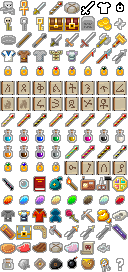
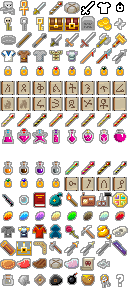
Worked on potions.

diff --git a/Tavernspiel/src/items/consumables/PotionProfile.java b/Tavernspiel/src/items/consumables/PotionProfile.java
@@ -1,0 +1,290 @@
+
+package items.consumables;
+
+import creatureLogic.Description;
+import java.awt.Color;
+import java.awt.Graphics;
+import java.awt.Image;
+import java.awt.image.BufferedImage;
+import java.awt.image.WritableRaster;
+import java.util.HashMap;
+import java.util.Random;
+import javax.swing.ImageIcon;
+import logic.Utils;
+
+/**
+ *
+ * @author Adam Whittaker
+ */
+public class PotionProfile{
+    
+    protected static BufferedImage items;
+    static{
+        ImageIcon ic = new ImageIcon("graphics/items.png");
+        items = new BufferedImage(ic.getIconWidth(), ic.getIconHeight(), BufferedImage.TYPE_INT_ARGB);
+        Graphics g = items.getGraphics();
+        g.drawImage(ic.getImage(), 0, 0, null);
+        g.dispose();
+    }
+    protected BufferedImage image;
+    protected String name;
+    protected String tasteMessage;
+    protected Description description;
+    
+    private static final HashMap<String, PotionProfile> potMap = new HashMap<>();
+    static{
+        DescriptionBuilder builder = new DescriptionBuilder();
+        potMap.put("Potion in a pyramidal tube", builder.getProfile("Potion in a narrow pyramidal tube", 0, 128));
+        potMap.put("Potion in a heart shaped tube", builder.getProfile("Potion in a heart shaped tube", 16, 128));
+        potMap.put("Potion in a star-shaped tube", builder.getProfile("Potion in a star-shaped tube", 32, 128));
+        potMap.put("Potion in a conical vial", builder.getProfile("Potion in a thick conical vial", 48, 128));
+        potMap.put("Potion in a circular vial", builder.getProfile("Potion in a thick circular vial", 64, 128));
+        potMap.put("Potion in a skull shaped bottle", builder.getProfile("Potion in a skull shaped bottle", 80, 128));
+        potMap.put("Potion in a cubic bottle", builder.getProfile("Potion in a cubic bottle", 96, 128));
+        potMap.put("Potion in a spherical jar", builder.getProfile("Potion in a spherical jar", 112, 128));
+        potMap.put("Potion in a skull shaped bottle", builder.getProfile("Potion in a skull shaped bottle", 0, 144));
+        potMap.put("Potion in a skull shaped bottle", builder.getProfile("Potion in a skull shaped bottle", 16, 144));
+        potMap.put("Potion in a skull shaped bottle", builder.getProfile("Potion in a skull shaped bottle", 32, 144));
+    }
+    
+    private static Color getColour(String name){
+        switch(name){
+            case "apple green": return Color.decode("#00ff1d");
+            case "aquamarine": return Color.decode("#7FFFD4");
+            case     "apricot": return Color.decode("#FBCEB1");
+            case "lime": return Color.decode("#BFFF00");
+            case     "sky blue": return Color.decode("#87CEEB");
+            case     "amber": return Color.decode("#FFBF00");
+            case     "auburn": return Color.decode("#A52A2A");
+            case     "gold": return Color.decode("#FFD700");
+            case     "electrum": return Color.decode("#fef3d4");
+            case     "silver": return Color.decode("#C0C0C0");
+            case "azure": return Color.decode("#007FFF");
+            case     "magnolia": return Color.decode("#F4E9D8");
+            case     "banana": return Color.decode("#e7f26c");
+            case     "orange": return Color.decode("#FF8000");
+            case     "blizzard blue": return Color.decode("#50BFE6");
+            case     "blueberry": return Color.decode("#4570E6");
+            case "cerulean": return Color.decode("#1DACD6");
+            case     "periwinckle": return Color.decode("#C3CDE6");
+            case     "turquoise": return Color.decode("#6CDAE7");
+            case     "rose": return Color.decode("#ED0A3F");
+            case     "bubblegum": return Color.decode("#FC80A5");
+            case     "burgundy": return Color.decode("#900020");
+            case "chocolate": return Color.decode("#AF593E");
+            case     "coral": return Color.decode("#FF7F50");
+            case     "cyan": return Color.decode("#00FFFF");
+            case     "dandelion": return Color.decode("#FED85D");
+            case     "chestnut": return Color.decode("#954535");
+            case     "tangerine": return Color.decode("#FF9966");
+            case "lemon": return Color.decode("#FFFF9F");
+            case     "ruby": return Color.decode("#AA4069");
+            case     "emerald": return Color.decode("#14A989");
+            case     "forest green": return Color.decode("#5FA777");
+            case     "ginger": return Color.decode("#f78614");
+            case     "tea": return Color.decode("#995006");
+            case     "voilet": return Color.decode("#8359A3");
+            case "amaranth red": return Color.decode("#E52B50");
+            case     "scorpion brown": return Color.decode("#513315");
+            case     "amethyst": return Color.decode("#9966CC");
+            case     "charcoal": return Color.decode("#36454F");
+            case     "asparagus": return Color.decode("#87A96B");
+            case "ash": return Color.decode("#919191");
+            case     "copper": return Color.decode("#B87333");
+            case     "tin": return Color.decode("#b5a14a");
+            case     "beige": return Color.decode("#F5F5DC");
+            case     "bistre" : return Color.decode("#3D2B1F");
+            case     "olive" : return Color.decode("#808000");
+            case     "bronze": return Color.decode("#CD7F32");
+            case     "sapphire": return Color.decode("#0F52BA");
+            case "purple" : return Color.decode("#800080");
+            case     "boysenberry": return Color.decode("#910a0a");
+            case     "ochre" : return Color.decode("#CC7722");
+            case     "maroon" : return Color.decode("#800000");
+            case     "lavender" : return Color.decode("#E6E6FA");
+            case "lilac" : return Color.decode("#C8A2C8");
+            case     "sugar brown": return Color.decode("#aa5500");
+            case     "coffee": return Color.decode("#6F4E37");
+            case     "scarlet" : return Color.decode("#FF2400");
+            case     "crimson" : return Color.decode("#FF003F");
+            case     "salmon" : return Color.decode("#FA8072");
+            case "metallic": return Color.decode("#bbbbbb");
+            case     "mint" : return Color.decode("#3EB489");
+            case     "saffron" : return Color.decode("#F4C430");
+            case     "eggplant": return Color.decode("#614051");
+            case     "firebrick": return Color.decode("#ff5400");
+            case     "flame": return Color.decode("#f84400");
+            case     "white wine": return Color.decode("#dae8a9");
+            default: return new Color(255,255,255,0);
+        }
+    }
+    
+    private static BufferedImage outfitImage(BufferedImage img, Color liq, Color frag){
+        WritableRaster raster = img.getRaster();
+        int[] liquid = new int[]{liq.getRed(), liq.getGreen(), liq.getBlue()};
+        int[] liquidRegex = new int[]{238,0,156};
+        int[] shadedLiquid = shade(liquid);
+        int[] shadedLiquidRegex = new int[]{165,0,107};
+        for(int y=0;y<16;y++){
+            for(int x=0;x<16;x++){
+                int[] pixel = raster.getPixel(x, y, (int[]) null);
+                if(intArrayEquals(pixel, liquidRegex)) raster.setPixel(x, y, liquid);
+                else if(intArrayEquals(pixel, shadedLiquidRegex)) raster.setPixel(x, y, shadedLiquid);
+            }
+        }
+        if(frag==null) return img;
+        int[] fragment = new int[]{frag.getRed(), frag.getGreen(), frag.getBlue()};
+        int[] fragmentRegex = new int[]{238,159,153};
+        for(int y=0;y<16;y++){
+            for(int x=0;x<16;x++){
+                if(intArrayEquals(raster.getPixel(x, y, (int[]) null), fragmentRegex)) raster.setPixel(x, y, fragment);
+            }
+        }
+        return img;
+    }
+    
+    public static int[] shade(int[] pixel){
+        for(int n=0;n<3;n++) pixel[n] = pixel[n]<26 ? 0 : pixel[n]-25;
+        return pixel;
+    }
+    
+    public static boolean intArrayEquals(int[] p, int[] q){
+        for(int n=0;n<3;n++) if(p[n]!=q[n]) return false;
+        return true;
+    }
+    
+    private static final class DescriptionBuilder{
+        private final Random r = new Random();
+        private String description = "";
+        private final String[] colour = {"apple green", "aquamarine", "apricot",
+            "lime", "sky blue", "amber", "auburn", "gold", "electrum", "silver",
+            "azure", "magnolia", "banana", "orange", "blizzard blue", "blueberry",
+            "cerulean", "periwinckle", "turquoise", "rose", "bubblegum", "burgundy",
+            "chocolate", "coral", "cyan", "dandelion", "chestnut", "tangerine",
+            "lemon", "ruby", "emerald", "forest green", "ginger", "tea", "voilet", 
+            "amaranth red", "scorpion brown", "amethyst", "charcoal", "asparagus", 
+            "ash", "copper", "tin", "beige", "bistre", "olive", "bronze", "sapphire",
+            "purple", "boysenberry", "ochre", "maroon", "lavender", 
+            "lilac", "sugar brown", "coffee", "scarlet", "crimson", "salmon", 
+            "metallic", "mint", "saffron", "eggplant", "firebrick", "flame", "white wine"};
+        private final String[] colourMod = {"dark ", "bright ", "clear ", "",
+            "crystal clear ", "dull ", "vibrant ", "glowing ", "murderous ", "curious "};
+        private final String[] temp = {" warm", " cold", " hot", " lukewarm",
+            "n ice cold", " chilly", "n icy", " bitterly cold", " torrid",
+            " blazing hot"};
+        private final String[] shapeMod = {"", " thin", " thick", " wide", " narrow"};
+        private final String[] shape = {"star-shaped", "conical", "spherical",
+            "cubic", "pyramidal", "heart shaped", "skull shaped", "triangular",
+            "circular"};
+        private final String[] container = {"flask", "bottle", "vial", "jar", "tube"};
+        private final String[] stopper = {"cork", "rubber", "wooden", "glass"};
+        private final String[] texture = {"is frothy", "is bubbly", "is gelatinous",
+            "is thick", "is effervescent", "is creamy",
+            "contains " + word(colourMod) + word(colour) + " coloured" + word(shapeMod) + " "
+            + word(shape) + " fragments",
+            "contains " + word(colourMod) + word(colour) + " coloured" + word(shapeMod) + " "
+            + word(shape) + " flakes"};
+        private final String[] sLike = {"perfume", "rotten eggs", "freshly cut grass", "burnt plastic", "ash", "a corpse", "some exotic plant",
+            "some eccentric plant", "petrichor"};
+        private final String[] food = {"chocolate", "a strawberry", "an orange",
+            "a squid", "the summer", "the winter", "valentine's chocolate", "fire",
+            "wine", "chicken"};
+        private final String[] taste = {"spicy", "bitter", "sweet", "divine",
+            "like " + word(food), "vile", "foul", "impure", "horrible", "ok",
+            "wonderful", "sour", "stale", "bland"};
+        private final String[] smell = {"putrid", "like " + word(sLike), "like "
+            + word(food), "sweet", "aromatic", "refreshing", "pungent", "fetid",
+            "unpleasant", "malodorous", "funky", "funny", "musty", "rancid", "old",
+            "fragrant", "foul", "healthy", "unhealthy"};
+        private final String[] viscosity = {"viscous", "runny", "thick", "syrupy",
+            "slimy", "gooey", "watery", "thin"};
+        private final String[] decoration = {"The container is mildly cracked.",
+            "The container has lots of cracks.", "The stopper is in the shape of a skull.", "The stopper is in the shape of a heart.",
+            "There is a label stuck on one side.",
+            "There are strange engravings on the container."};
+        
+        String word(String[] ary){
+            return ary[r.nextInt(ary.length)];
+        }
+        
+        String[] textureWord(){
+            int n = r.nextInt(texture.length);
+            if(n==6){
+                String word = word(colour);
+                return new String[]{"contains " + word(colourMod) + word + " coloured" + word(shapeMod) + " "
+                + word(shape) + " fragments", word};
+            }else if(n==7){
+                String word = word(colour);
+                return new String[]{"contains " + word(colourMod) + word + " coloured" + word(shapeMod) + " "
+                + word(shape) + " flakes", word};
+            }
+            return new String[]{texture[n]};
+        }
+        
+        void temp(){
+            description += "The potion is a" + word(temp) + ", ";
+        }
+
+        String colour(){
+            String ret = word(colour);
+            description += word(colourMod) + ret + " coloured liquid.\n";
+            return ret;
+        }
+
+        String texture(){
+            String[] str = textureWord();
+            description += "It " + str[0];
+            if(str.length==2) return str[1];
+            return null;
+        }
+
+        void smell(){
+            description += " and smells " + word(smell) + ".\n";
+        }
+
+        void viscosity(){
+            description += "The liquid itself is a " + word(viscosity)
+                    + " substance.\n";
+        }
+
+        void shapeContainer(String name){
+            description += "A" + word(shapeMod) + " ";
+            String[] ary = name.split(" ");
+            for(int n=1;n<ary.length;n++) description += ary[n] + " "; 
+            description += word(container) + " with a " + word(colour)
+                    + " coloured " + word(stopper) + " stopper holds the potion.\n";
+        }
+
+        void decoration(){
+            description += word(decoration) + "\n";
+        }
+
+        String taste(){
+            return "The potion tasted " + word(taste) + ".";
+        }
+        
+        PotionProfile getProfile(String name, int x, int y){
+            temp();
+            String colour = colour();
+            String texture = texture();
+            smell();
+            viscosity();
+            shapeContainer(name);
+            decoration();
+            return new PotionProfile(name, new Description("potions", description), taste(), outfitImage(getImage(x, y), getColour(colour), texture==null ? null : getColour(texture)));   
+        }
+        
+    }
+    
+    PotionProfile(String nm, Description desc, String taste, BufferedImage im){
+        name = nm;
+        tasteMessage = taste;
+        image = im;
+        description = desc;
+    }
+    
+    protected static BufferedImage getImage(int x, int y){
+        return items.getSubimage(x, y, 16, 16);
+    }
+    
+}

diff --git a/Tavernspiel/src/logic/ImageHandler.java b/Tavernspiel/src/logic/ImageHandler.java
@@ -16,9 +16,8 @@ import level.Location;
  */
 public class ImageHandler{
     
-    private static HashMap<String, Dimension> map = new HashMap<>();
-    
-    public static void initializeMap(){
+    private static final HashMap<String, Dimension> map = new HashMap<>();    
+    static{
         map.put("void", new Dimension(0, 0));
         map.put("floor", new Dimension(16, 0));
         map.put("lowgrass", new Dimension(32, 0));
@@ -77,7 +76,6 @@ public class ImageHandler{
     }
     
     public static Image getImage(String str, Location loc){
-        if(map.isEmpty()) initializeMap();
         return getImage(
                 map.get(str.toLowerCase())==null ?
                 new Dimension(240, 48) : map.get(str.toLowerCase()), loc);

diff --git a/Tavernspiel/src/items/consumables/ScrollBuilder.java b/Tavernspiel/src/items/consumables/ScrollBuilder.java
@@ -63,10 +63,10 @@ public class ScrollBuilder{
         scrollMap.put("REDO", new Dimension(80, 96));
         scrollMap.put("SEMA", new Dimension(96, 96));
         scrollMap.put("BLANK", new Dimension(112, 96));
-        scrollMap.put("FERESI", new Dimension(64, 160));
-        scrollMap.put("MOKATI", new Dimension(80, 160));
-        scrollMap.put("MAZORI", new Dimension(96, 160));
-        scrollMap.put("HULUMI", new Dimension(112, 160));
+        scrollMap.put("FERESI", new Dimension(64, 176));
+        scrollMap.put("MOKATI", new Dimension(80, 176));
+        scrollMap.put("MAZORI", new Dimension(96, 176));
+        scrollMap.put("HULUMI", new Dimension(112, 176));
     }
     
     private boolean isIdd(String scroll){

diff --git a/Tavernspiel/src/items/Consumable.java b/Tavernspiel/src/items/Consumable.java
@@ -1,7 +1,9 @@
 
 package items;
 
+import creatureLogic.Description;
 import creatures.Creature;
+import java.awt.Image;
 import javax.swing.ImageIcon;
 
 /**
@@ -24,6 +26,12 @@ public abstract class Consumable extends Item{
     
     public Consumable(String n, String desc, ImageIcon i, boolean idd, int q, boolean flam){
         super(n, desc, i, q, flam);
+        identified = idd;
+        actions = ItemAction.getArray(3);
+    }
+    
+    public Consumable(String n, Description desc, Image im, boolean idd){
+        super(n, desc, im, 1);
         identified = idd;
         actions = ItemAction.getArray(3);
     }

diff --git a/Tavernspiel/src/items/Item.java b/Tavernspiel/src/items/Item.java
@@ -62,6 +62,13 @@ public class Item implements Serializable{
         stackable = s;
     }
     
+    public Item(String n, Description desc, Image i, int q){
+        name = n;
+        description = desc;
+        icon = i;
+        quantity = q;
+    }
+    
     public String getPronounedName(int level, String pro){
         if(pro.equals("the")) return "the " + toString(level);
         else{

diff --git a/Tavernspiel/src/gui/MainClass.java b/Tavernspiel/src/gui/MainClass.java
@@ -72,7 +72,6 @@ public abstract class MainClass extends Canvas implements Runnable, MouseListene
         }catch(FileNotFoundException e){
             System.err.println("PrintStream failed.");
         }
-        ImageHandler.initializeMap();
 
         handler = new Handler();
         reaper = new GrimReaper(handler);

diff --git a/Tavernspiel/src/items/consumables/Potion.java b/Tavernspiel/src/items/consumables/Potion.java
@@ -23,4 +23,9 @@ public abstract class Potion extends Consumable{
         actions[2] = new ItemAction("DRINK");
     }
     
+    public Potion(PotionProfile pp, boolean idd){
+        super(pp.name, pp.description, pp.image, idd);
+        actions[2] = new ItemAction("DRINK");
+    }
+    
 }
